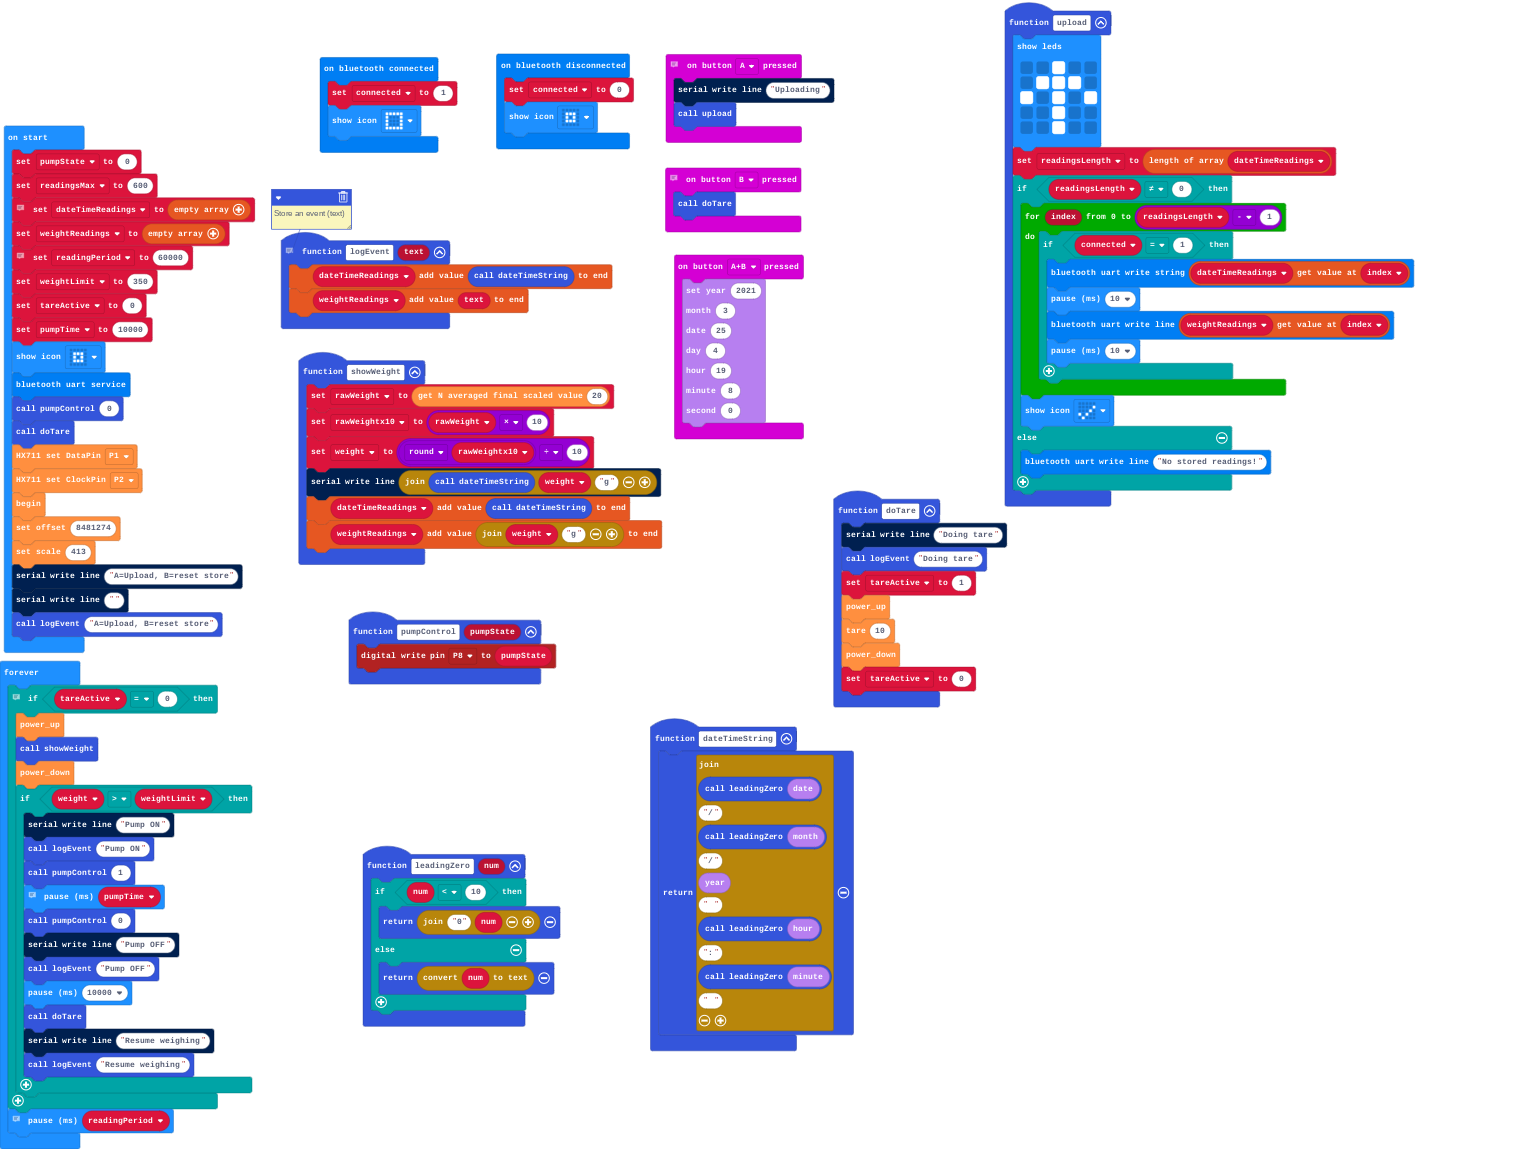
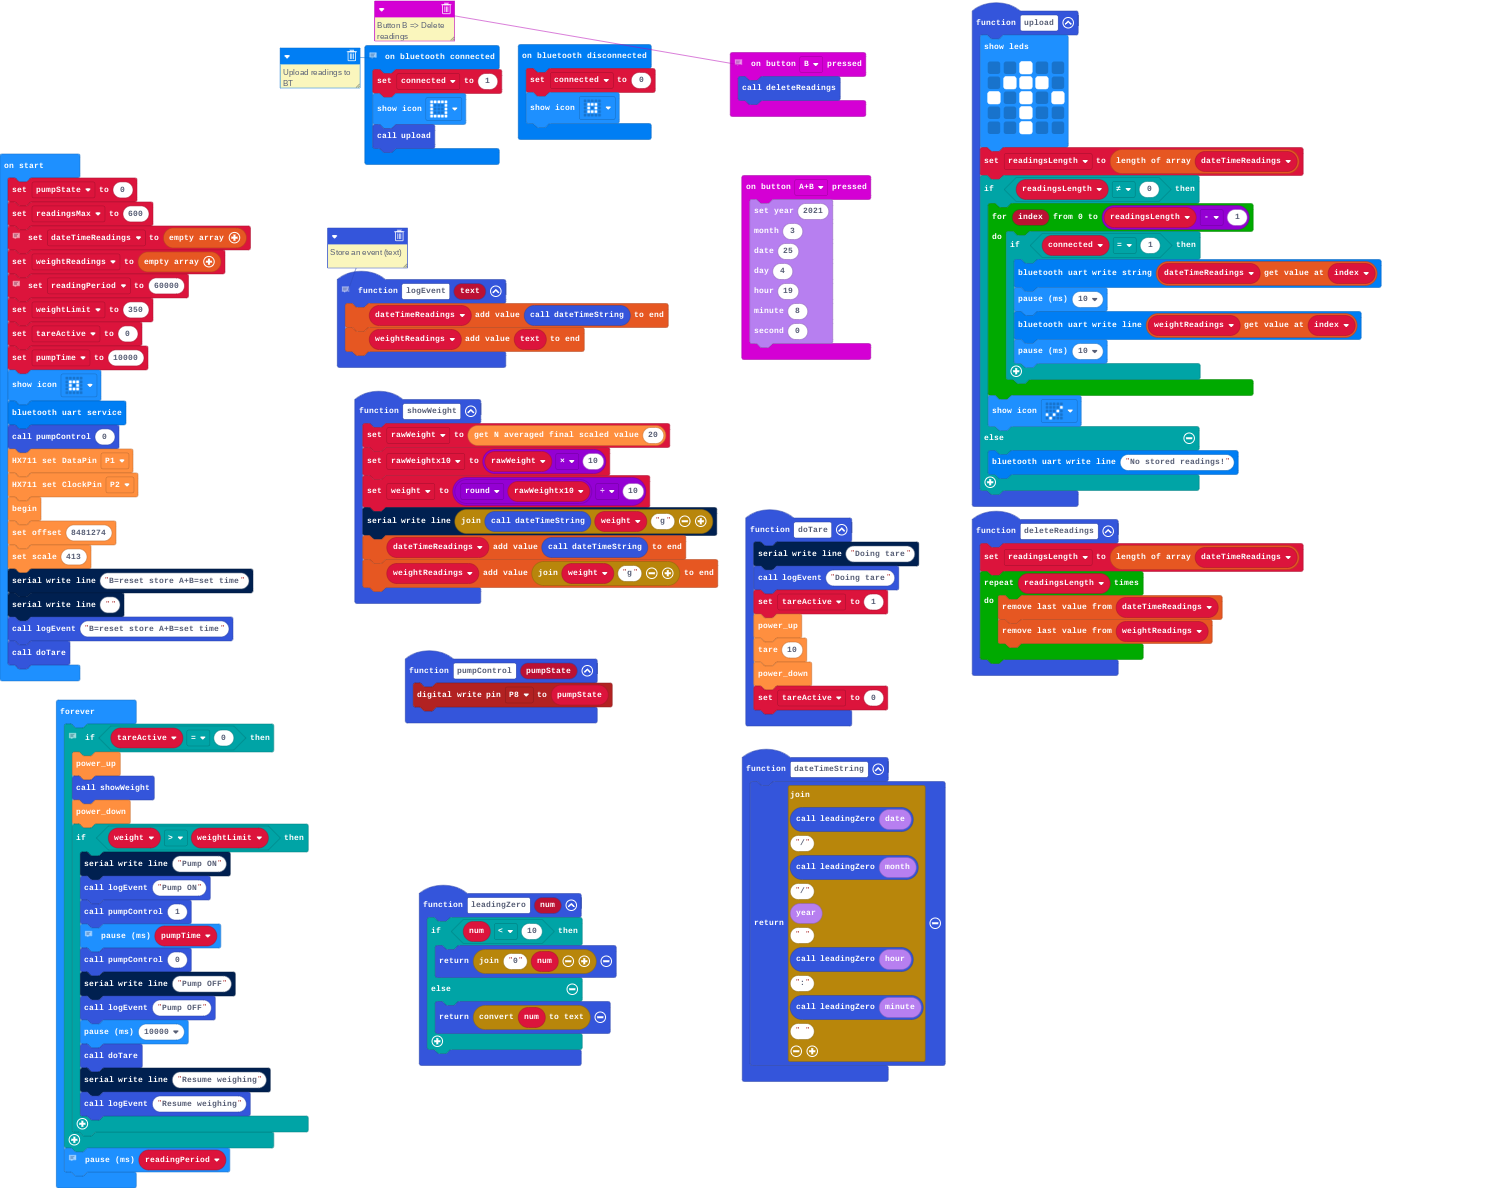
moved initial dotare

diff --git a/main.ts b/main.ts
@@ -18,6 +18,13 @@ function showWeight () {
 function pumpControl (pumpState: number) {
     pins.digitalWritePin(DigitalPin.P8, pumpState)
 }
+function deleteReadings () {
+    readingsLength = dateTimeReadings.length
+    for (let index = 0; index < readingsLength; index++) {
+        dateTimeReadings.pop()
+        weightReadings.pop()
+    }
+}
 function leadingZero (num: number) {
     if (num < 10) {
         return "0" + num
@@ -25,18 +32,15 @@ function leadingZero (num: number) {
         return convertToText(num)
     }
 }
+// Upload readings to BT
 bluetooth.onBluetoothConnected(function () {
     connected = 1
     basic.showIcon(IconNames.Square)
+    upload()
 })
 bluetooth.onBluetoothDisconnected(function () {
     connected = 0
     basic.showIcon(IconNames.SmallSquare)
-})
-// Button A => Pump toggle
-input.onButtonPressed(Button.A, function () {
-    serial.writeLine("Uploading")
-    upload()
 })
 // Store an event (text)
 function logEvent (text: string) {
@@ -80,12 +84,12 @@ input.onButtonPressed(Button.AB, function () {
     0
     )
 })
-// Button B => Tare
+// Button B => Delete readings
 input.onButtonPressed(Button.B, function () {
-    doTare()
+    deleteReadings()
 })
-let readingsLength = 0
 let connected = 0
+let readingsLength = 0
 let weight = 0
 let rawWeightx10 = 0
 let rawWeight = 0
@@ -105,15 +109,15 @@ let pumpTime = 10000
 basic.showIcon(IconNames.SmallSquare)
 bluetooth.startUartService()
 pumpControl(0)
-doTare()
 HX711.SetPIN_DOUT(DigitalPin.P1)
 HX711.SetPIN_SCK(DigitalPin.P2)
 HX711.begin()
 HX711.set_offset(8481274)
 HX711.set_scale(413)
-serial.writeLine("A=Upload, B=reset store")
+serial.writeLine("B=reset store A+B=set time")
 serial.writeLine("")
-logEvent("A=Upload, B=reset store")
+logEvent("B=reset store A+B=set time")
+doTare()
 basic.forever(function () {
     // Display continuously unless tare is operating
     if (tareActive == 0) {
